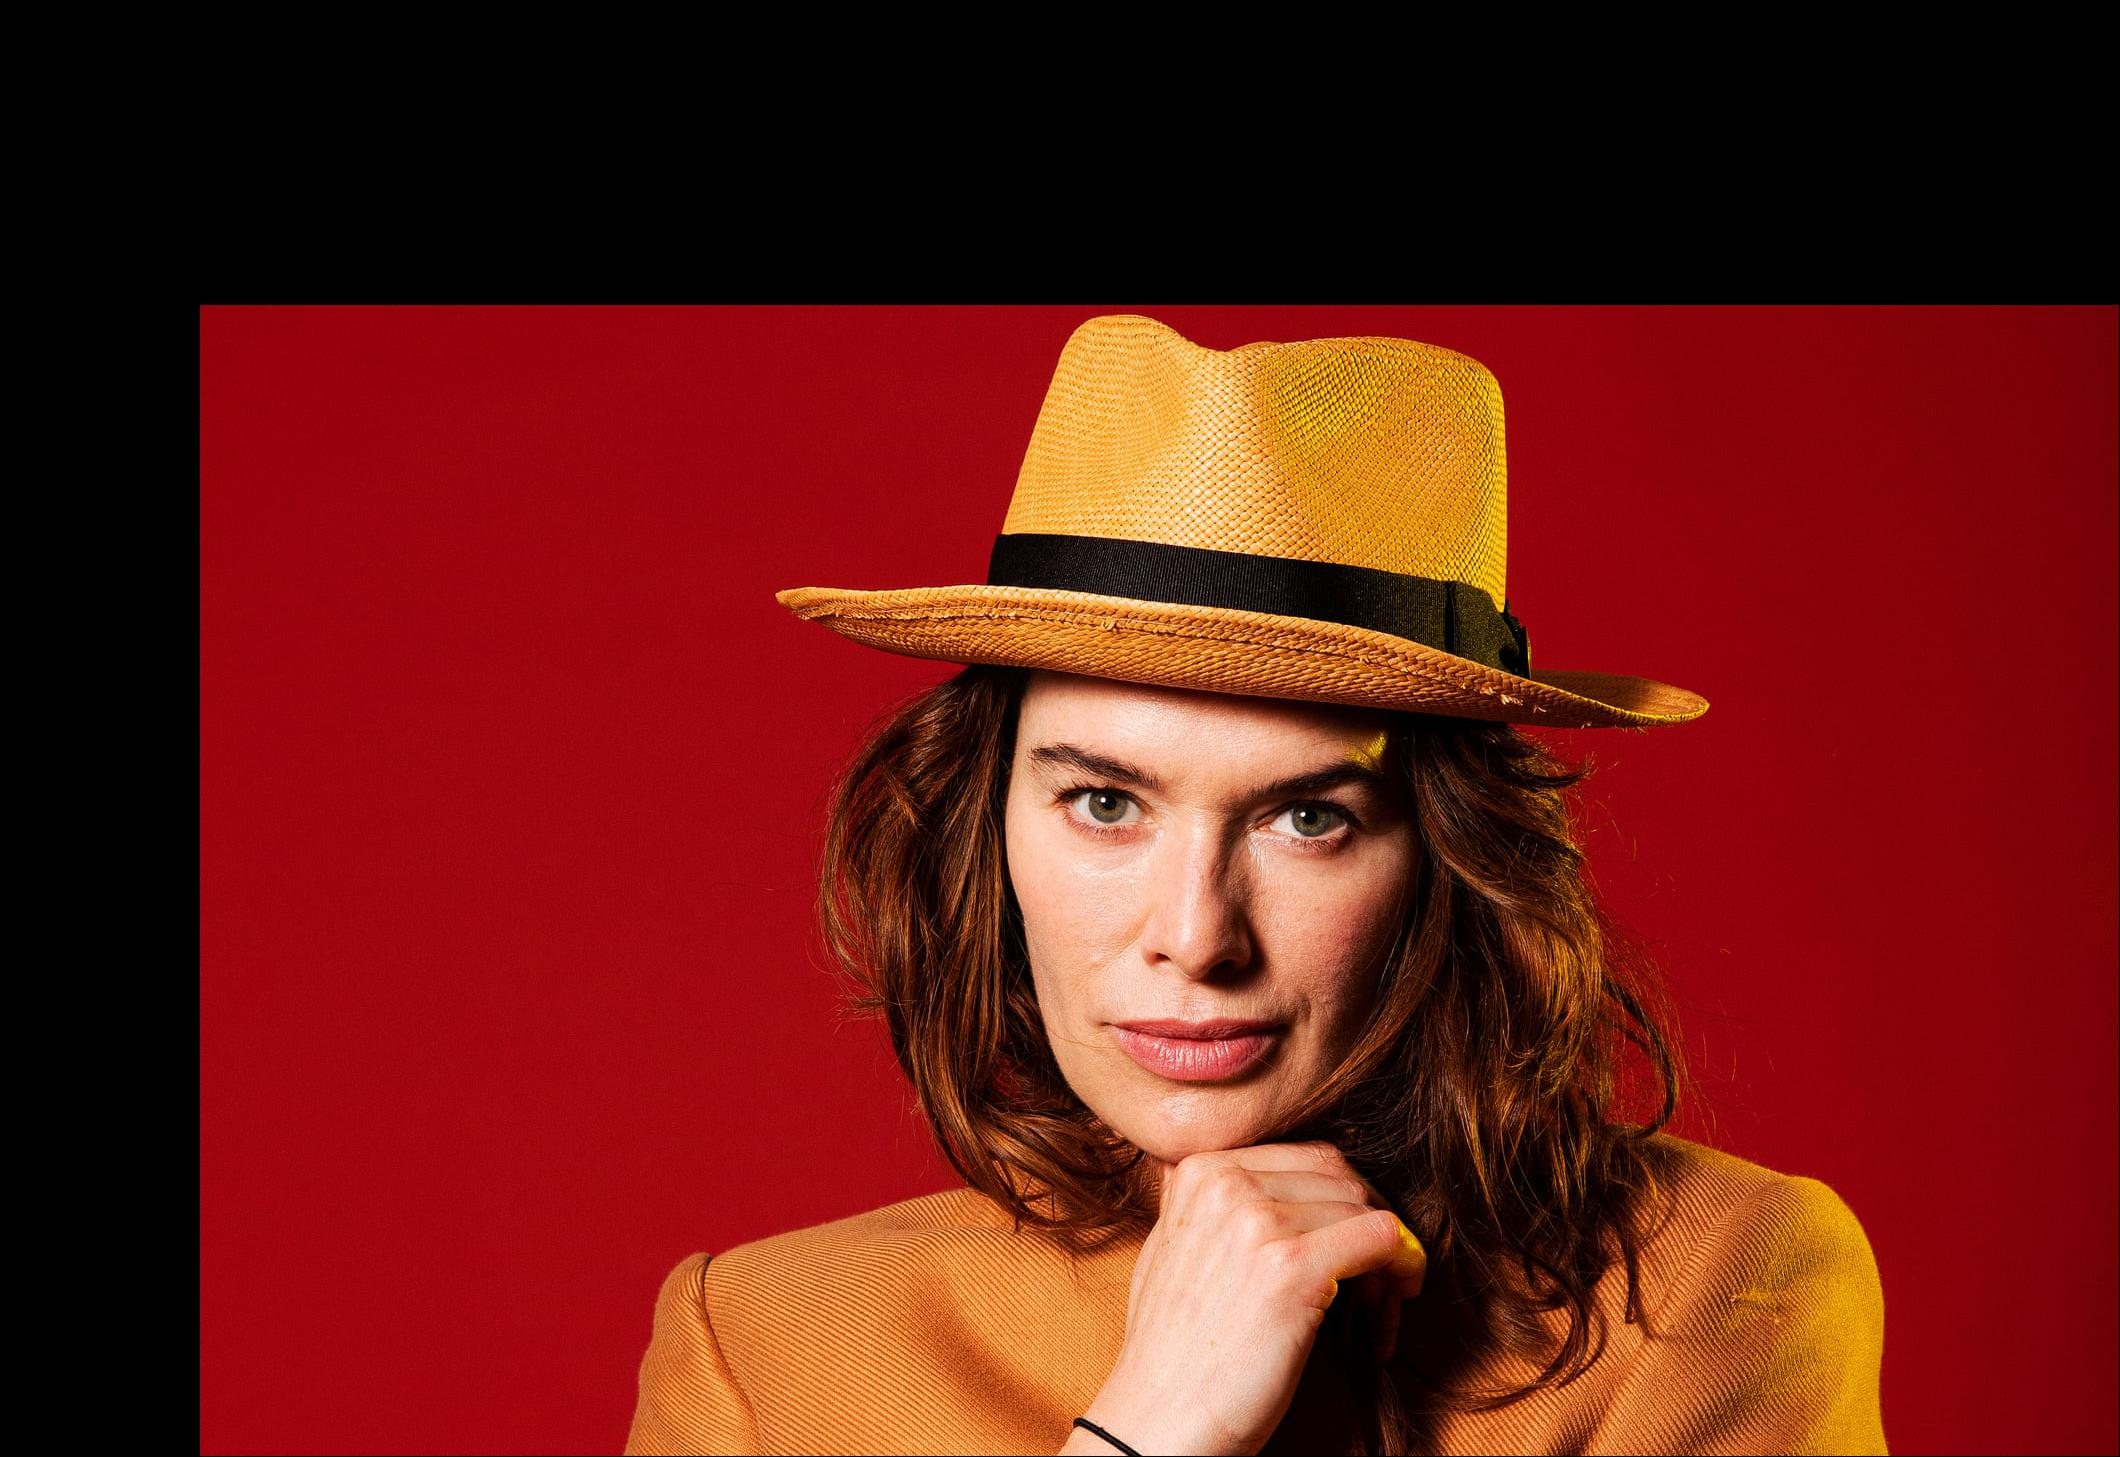
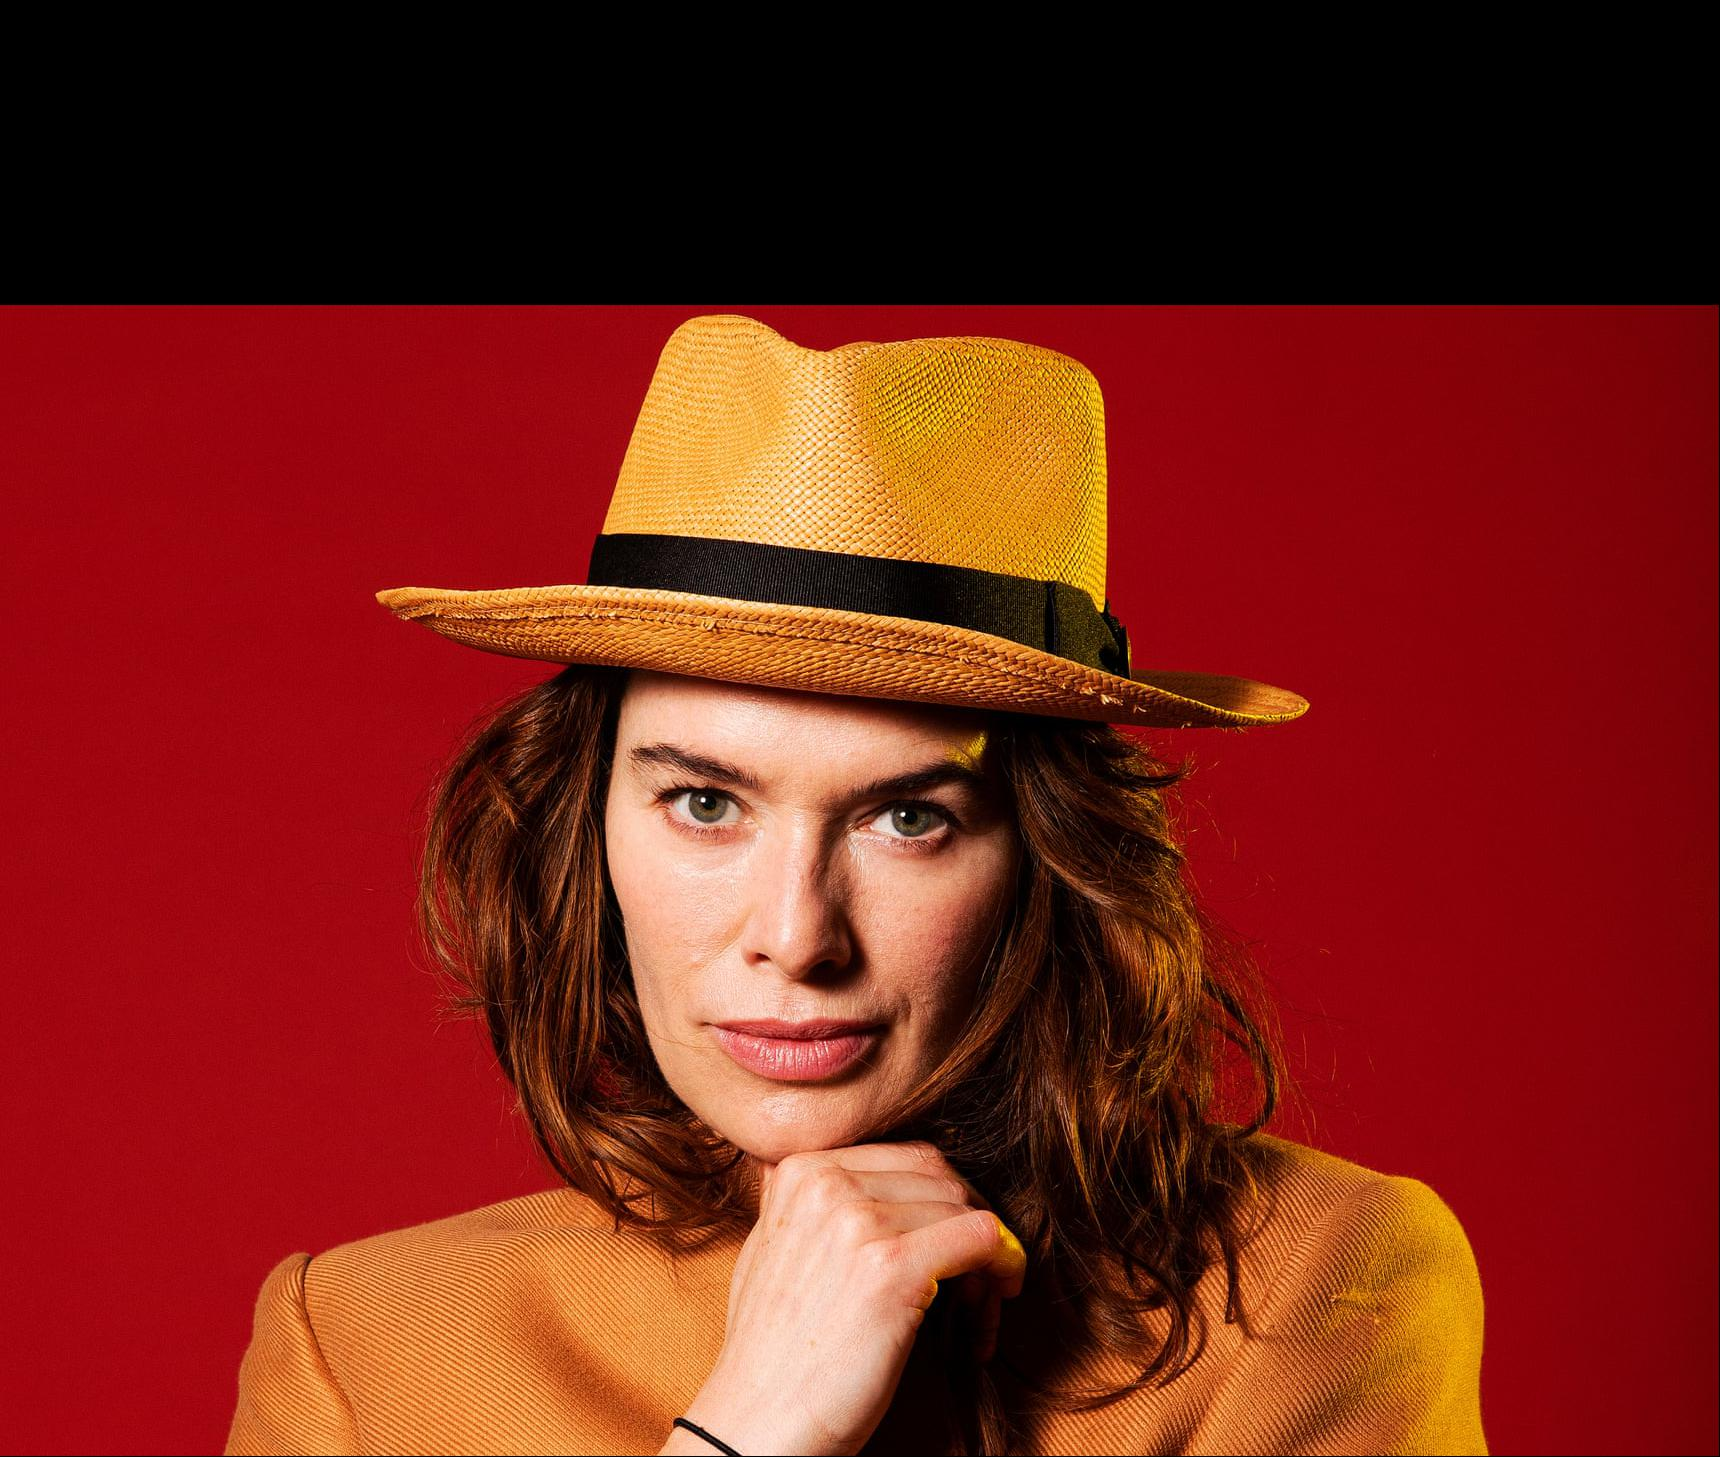
增加缩放倍数的功能

diff --git a/exp.py b/exp.py
@@ -80,9 +80,17 @@ class exp:
         self.save('flip_')
 
     # 图像缩放
-    def resize(self, new_x, new_y):
-        cx = self.xsize / new_x
-        cy = self.ysize / new_y
+    def resize(self, new_size):
+        if isinstance(new_size, tuple):
+            cx = self.xsize / new_size[0]
+            cy = self.ysize / new_size[1]
+            new_x = new_size[0]
+            new_y = new_size[1]
+        elif isinstance(new_size, float) or isinstance(new_size, int):
+            cx = 1 / new_size
+            cy = 1 / new_size
+            new_x = int(self.xsize / cx)
+            new_y = int(self.ysize / cy)
         self.new_image(new_x, new_y)
         for j in range(new_y):
             for i in range(new_x):
@@ -131,7 +139,8 @@ def matrix(matrix, xsize, ysize):
 
 
 t = exp('color.jpg')
-# t.rotate(40.52)
+# t.rotate(-400.5)
 # t.flip()
-t.move(200.2, 305.8)
-# t.resize(1000, 640)
+# t.move(-200.2, 305.8)
+# t.resize((10220, 400))
+t.resize(2)
